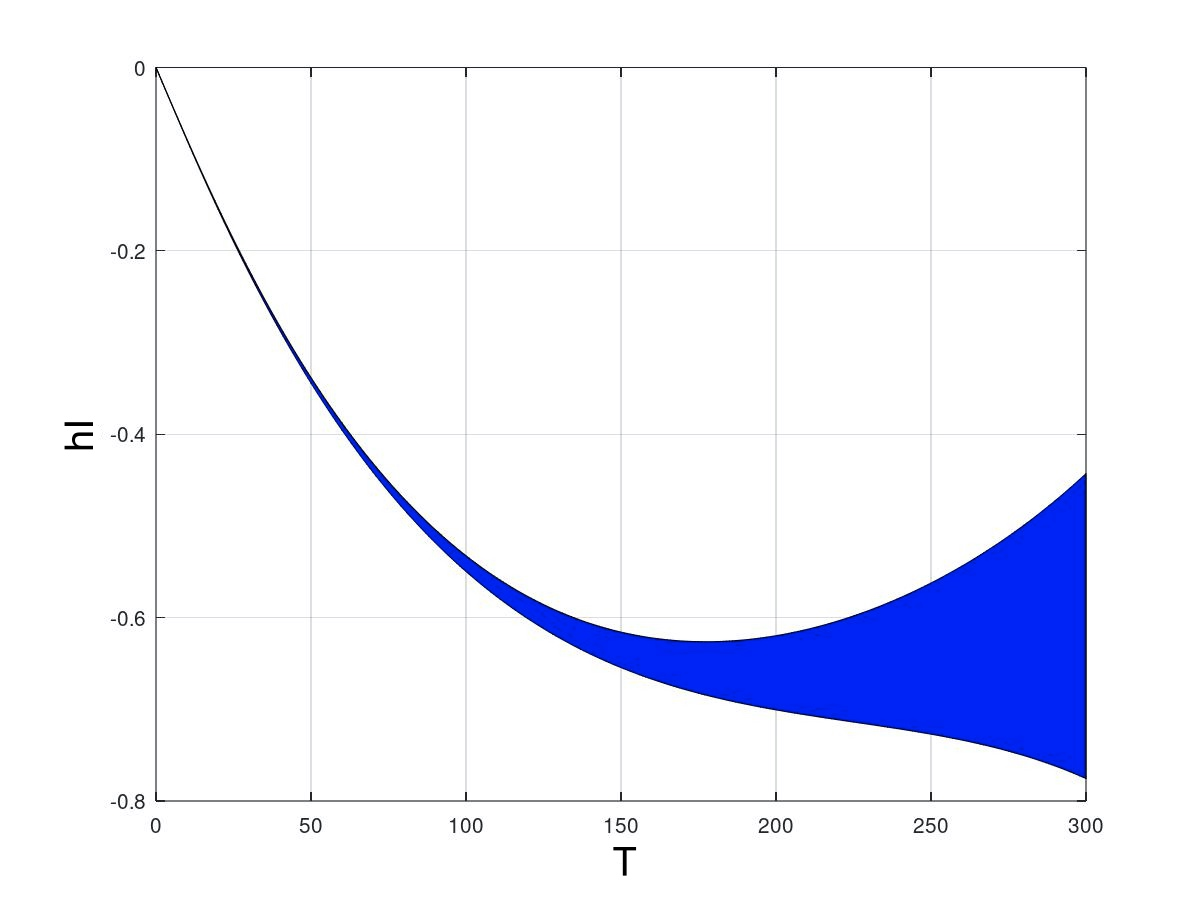
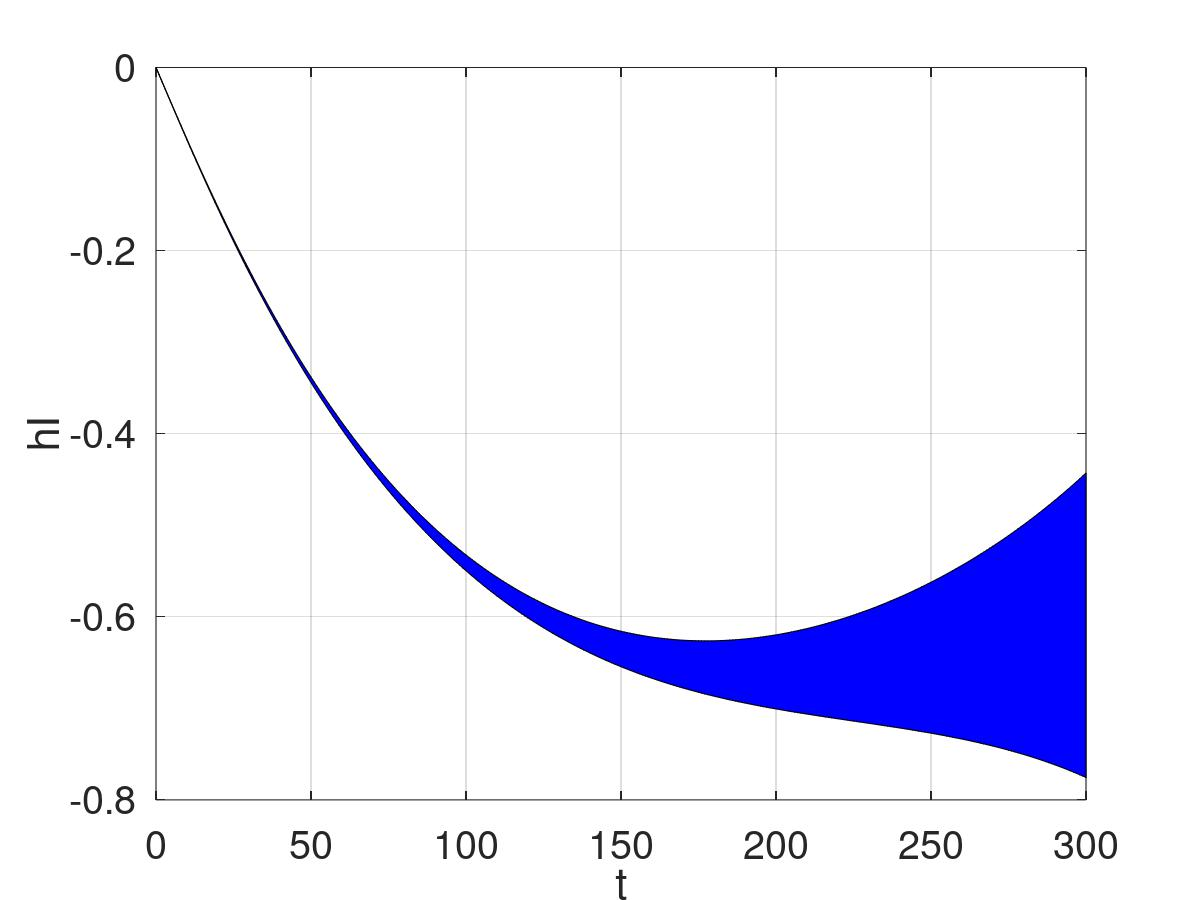
New figures with larger axis font size

diff --git a/tests/models/test_rossler.py b/tests/models/test_rossler.py
@@ -8,6 +8,9 @@ def test_Rossler():
 
     model = Rossler()
     mod_reach = ReachSet(model)
-    mod_flow = mod_reach.computeReachSet(200)
+    mod_flow = mod_reach.computeReachSet(300)
 
-    Timer.generate_stats()
+    FlowPipePlotter(mod_flow).plot2DProj(0)
+    FlowPipePlotter(mod_flow).plot2DProj(1)
+    FlowPipePlotter(mod_flow).plot2DProj(2)
+    #Timer.generate_stats()

diff --git a/kaa/flowpipe.py b/kaa/flowpipe.py
@@ -1,6 +1,8 @@
 import matplotlib.pyplot as plt
 import numpy as np
 
+plt.rcParams.update({'font.size': 15})
+
 from scipy.spatial import HalfspaceIntersection
 
 import kaa.log as Log
